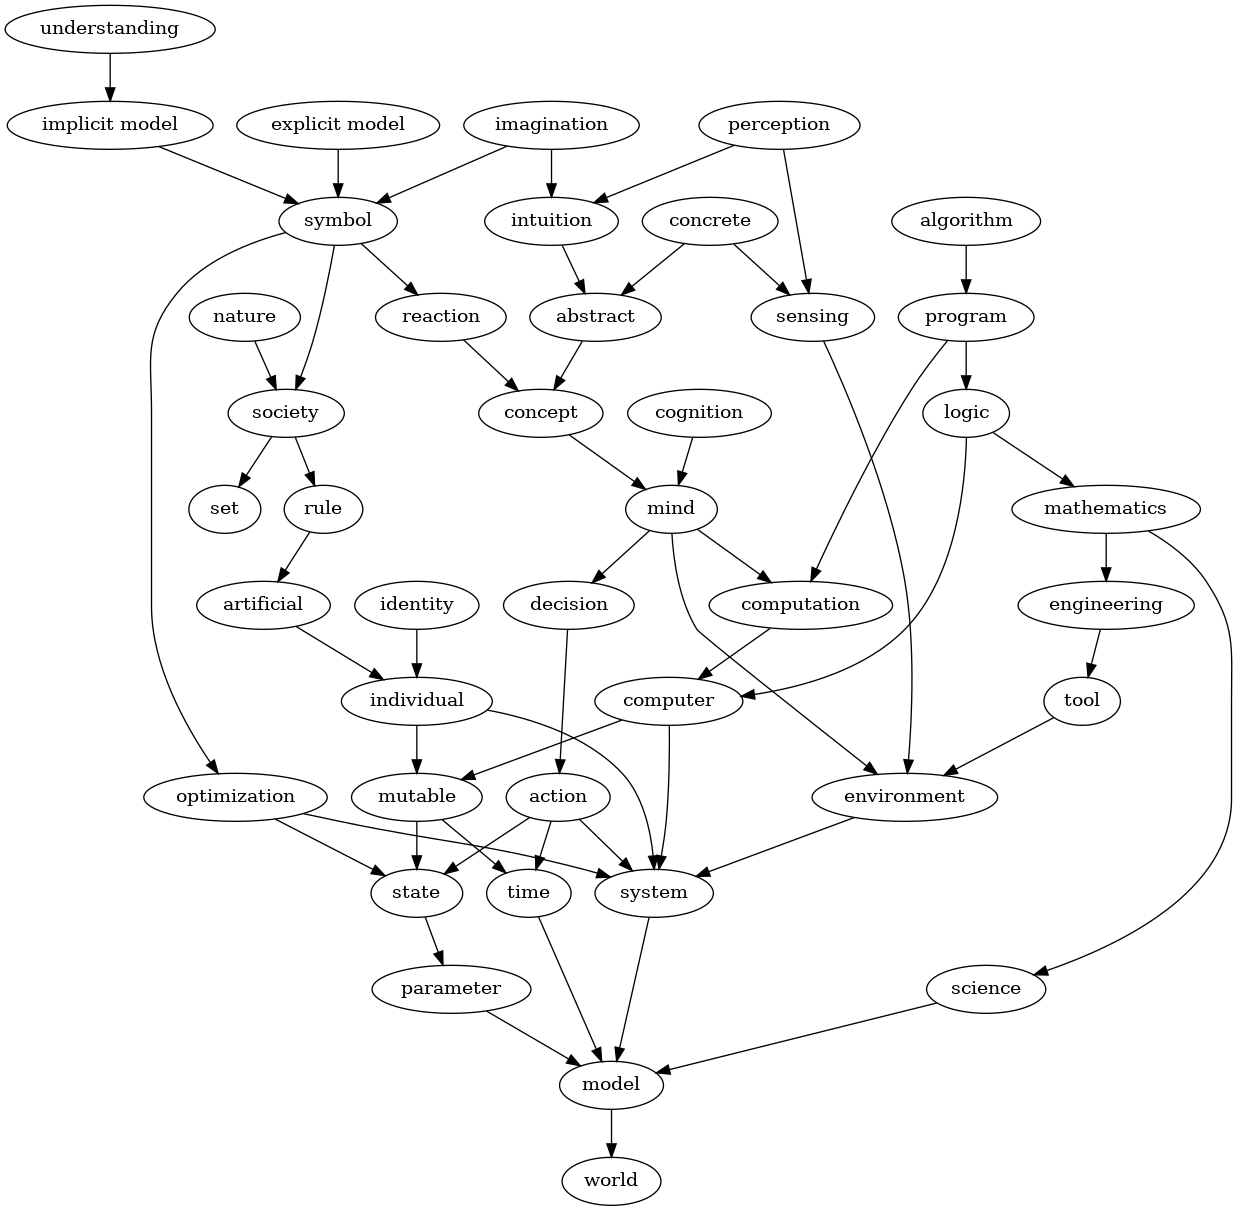
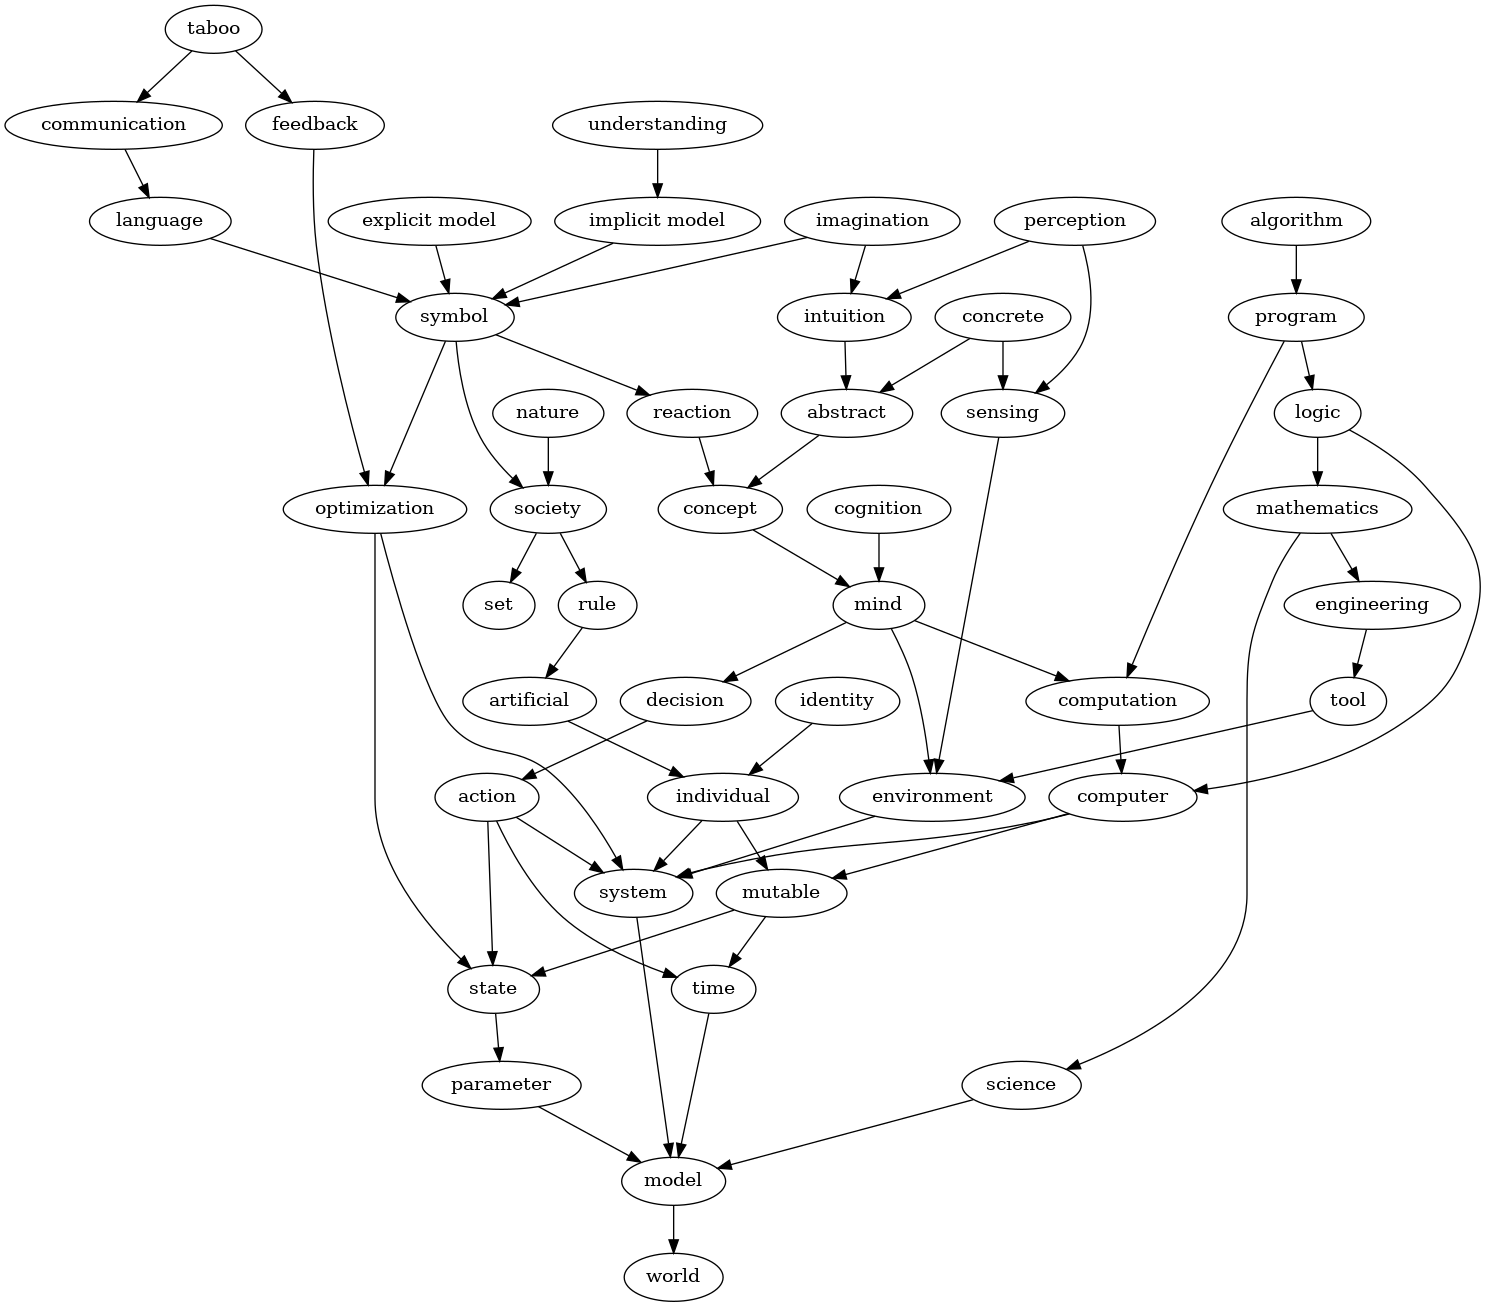
Add definitions

diff --git a/src/2020-09-12-dictionary/index.md b/src/2020-09-12-dictionary/index.md
@@ -335,6 +335,11 @@ is the function that maps a
 [state](#vanity-7374617465){.vanity-term-link} of a system to the number
 referred to as fitness. ]{.vanity-contents}
 
+[]{#vanity-666565646261636b}**feedback**: [Input of the
+[fitness](#vanity-6f7074696d697a6174696f6e){.vanity-term-link} function
+of a [system](#vanity-73797374656d){.vanity-term-link}.
+]{.vanity-contents}
+
 []{#vanity-73796d626f6c}**symbol**: [A conventional representation of a
 [concept](#vanity-636f6e63657074){.vanity-term-link}. It is a component
 of the [world](#vanity-776f726c64){.vanity-term-link} to which some
@@ -343,6 +348,10 @@ members of a [society](#vanity-736f6369657479){.vanity-term-link} will
 and that does not provide
 [benefits](#vanity-6f7074696d697a6174696f6e){.vanity-term-link} other
 than eliciting similar reactions in others. ]{.vanity-contents}
+
+[]{#vanity-6c616e6775616765}**language**: [Combinations of
+[symbols](#vanity-73796d626f6c){.vanity-term-link} forming \... symbols.
+]{.vanity-contents}
 
 []{#vanity-696d6167696e6174696f6e}**imagination**: [A form of
 [intuition](#vanity-696e74756974696f6e){.vanity-term-link}, generally
@@ -382,6 +391,43 @@ that benefit from identifying features of the model without much
 The properties of a mind that allow it to extend its implicit
 [world](#vanity-776f726c64){.vanity-term-link} model.
 ]{.vanity-contents}
+
+[]{#vanity-636f6d6d756e69636174696f6e}**communication**: [Transfer of
+[concepts](#vanity-636f6e63657074){.vanity-term-link} from an
+[individual](#vanity-696e646976696475616c){.vanity-term-link} to other
+individuals. A concept is the activation of a construct within a
+particular [mind](#vanity-6d696e64){.vanity-term-link}. In general, two
+individuals with similar experience and exposed to the same input will
+activate approximately equivalent concepts. For example, when seeing an
+apple, some kind of neuron may light up, corresponding to the
+approximately defined concept of \"an apple being present in front of
+them\". We distinguish concepts, which are internal to each mind, from
+[symbols](#vanity-73796d626f6c){.vanity-term-link} which are
+placeholders meant to activate, trigger, or elicit a particular concept.
+Communication may or may not rely on symbols.
+[Language](#vanity-6c616e6775616765){.vanity-term-link} relies on
+symbols to represent concepts. An example of communication without
+symbols is teaching by example, such as an animal showing their
+offspring how to catch prey by just doing it. ]{.vanity-contents}
+
+[]{#vanity-7461626f6f}**taboo**: [A
+[concept](#vanity-636f6e63657074){.vanity-term-link} that is being
+avoided by an individual or group of individuals. Keeping in mind that a
+concept is the activation of a particular state of the mind, avoiding a
+concept is a complex process. It requires some training that consists in
+identifying situations that may lead to the concept, and favoring
+actions that take the focus away from the taboo concept. It is important
+to distinguish a taboo from any undesirable situation. A taboo concept
+is not just about avoiding a specific situation but also avoiding
+thinking about it. For example, the concept \"a tiger is attacking me\"
+for most people is not taboo because we don\'t have a problem imagining
+this. The actual concept that we want to avoid is \"the tiger is really
+attacking me right now\". A taboo is a concept that is completely
+avoided, possibly due to threats
+[communicated](#vanity-636f6d6d756e69636174696f6e){.vanity-term-link} by
+others or more generally due to fear caused by
+[negative](#vanity-666565646261636b){.vanity-term-link} past experience
+involving co-occurring concepts. ]{.vanity-contents}
 
 []{#dag}
 [![](img/glossary-deps.png "Graph showing the dependencies between definitions of
